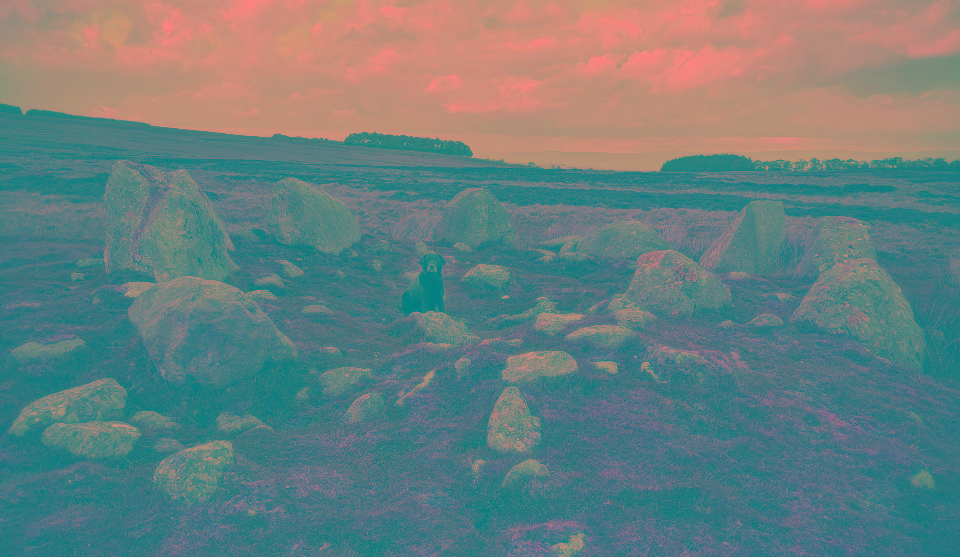
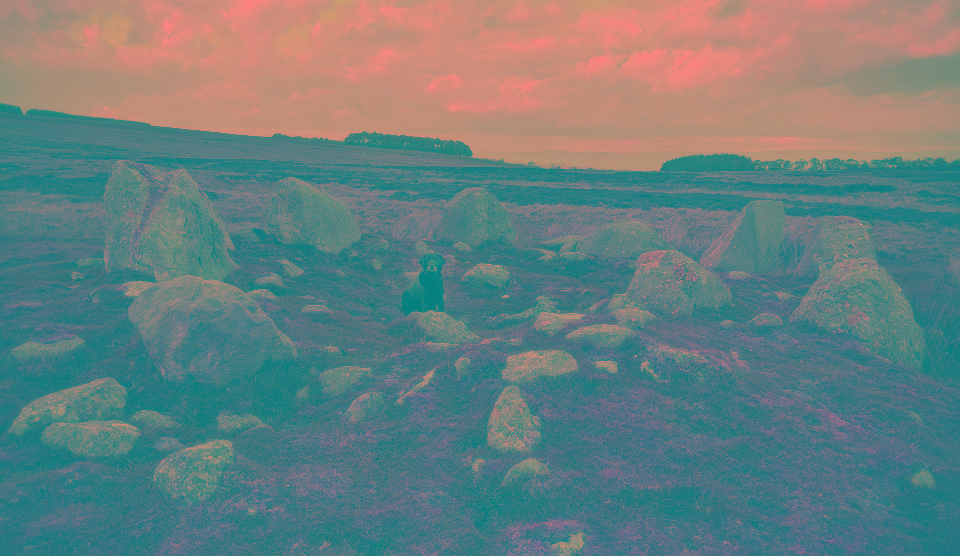
statisk site update

diff --git a/index.html b/index.html
@@ -1,8 +1,9 @@
+<!--- dither=atkinson,maxwidth=500 -->
 <!DOCTYPE html>
 <html>
 <head>
     <meta charset="UTF-8">
-    <title>Mini Website</title>
+    <title>Fisk Solar</title>
     <meta name="viewport" content="width=device-width, initial-scale=1">
     <link rel="apple-touch-icon" sizes="180x180" href="/apple-touch-icon.png">
     <link rel="icon" type="image/png" sizes="32x32" href="/favicon-32x32.png">
@@ -77,17 +78,16 @@
         <path d="M135.113 31.678a1.83 1.83 0 0 0 1.122 2.33l7.064 2.47a1.83 1.83 0 1 0 1.208-3.453l-7.064-2.47a1.83 1.83 0 0 0-2.33 1.123z"/>
         <path d="M94.518 19.42l7.063 2.469a1.83 1.83 0 1 0 1.208-3.454l-7.063-2.47a1.83 1.83 0 1 0-1.208 3.454z"/>
     </svg>
-    <br>
-    <h1>FISK <strike>SOLAR</strike></h1>
 </header>
 <div class="content">
-    <h1>Mini Website</h1><p><img src="example_filter_override_8by8Bayer_255_processed.jpeg" alt="GaddingsDamn" /></p><p><a href="./2019/06/25/index.html">25/06/2019 Machrie Moor Standing Stones, Arran</a><br><a href="./2019/06/24/index.html">24/06/2019 Brodick 'Deer Park' Standing Stones, Cladach, Arran</a><br><a href="./2019/06/26/index.html">26/06/2019 Druid Auchencar, Arran</a><br><a href="./2019/06/27/index.html">27/06/2019 Meallach's Grave, Arran</a><br><a href="./2019/07/03/index.html">03/07/2019 Sleeping babies</a><br><a href="./2019/05/26/index.html">26/05/2019 'Cairn Circle'</a><br><a href="./2019/05/29/index.html">29/05/2019 Hexagrams</a><br><a href="./2019/05/05/index.html">05/05/2019 Summit Tunnel Fire. December 20th 1984</a><br><a href="./2019/04/14/index.html">14/04/2019 Stones Lane, Stones, Todmorden</a><br><a href="./2019/04/28/index.html">28/04/2019 Gaddings Dam, Todmorden. First Swim 1987</a><br><a href="./2019/04/27/index.html">27/04/2019 Walsden TV Relay Tower, Stones Lane/Watty Lane, Todmorden</a><br><a href="./2019/04/18/index.html">18/04/2019 Helton, Cumbria</a><br><a href="./2019/04/20/index.html">20/04/2019 Cop Stone, Askham Fell, Cumbria</a><br></p>
+    <!--- -algorithm 8by8bayer -threshold 245 -foreground #cc0000 -->
+<h1>Fisk Solar</h1><p><img src="example_processed.png" alt="GaddingsDamn" /></p><p><a href="./2019/07/03/index.html">03/07/2019 Sleeping babies</a><br><a href="./2019/06/27/index.html">27/06/2019 Meallach's Grave, Arran</a><br><a href="./2019/06/26/index.html">26/06/2019 Druid Auchencar, Arran</a><br><a href="./2019/06/25/index.html">25/06/2019 Machrie Moor Standing Stones, Arran</a><br><a href="./2019/06/24/index.html">24/06/2019 Brodick 'Deer Park' Standing Stones, Cladach, Arran</a><br><a href="./2019/05/29/index.html">29/05/2019 Hexagrams</a><br><a href="./2019/05/26/index.html">26/05/2019 'Cairn Circle'</a><br><a href="./2019/05/05/index.html">05/05/2019 Summit Tunnel Fire. December 20th 1984</a><br><a href="./2019/04/28/index.html">28/04/2019 Gaddings Dam, Todmorden. First Swim 1987</a><br><a href="./2019/04/27/index.html">27/04/2019 Walsden TV Relay Tower, Stones Lane/Watty Lane, Todmorden</a><br><a href="./2019/04/20/index.html">20/04/2019 Cop Stone, Askham Fell, Cumbria</a><br><a href="./2019/04/18/index.html">18/04/2019 Helton, Cumbria</a><br><a href="./2019/04/14/index.html">14/04/2019 Stones Lane, Stones, Todmorden</a><br></p>
 </div>
 
 <footer>
 <hr>
 <div id="sourhall_data"></div>
-    Inspired by <a href="https://solar.lowtechmagazine.com">LOW←TECH MAGAZINE</a> | Icon by <a href="https://thenounproject.com/term/panels/2696981/">Icongeek26</a> | Page size including images: 126.4kb | <a href="https://github.com/fiskurgit/Statisk">Fisk Statisk</a><br>
+    Inspired by <a href="https://solar.lowtechmagazine.com">LOW←TECH MAGAZINE</a> | Icon by <a href="https://thenounproject.com/term/panels/2696981/">Icongeek26</a> | Page size including images: 36kb | <a href="https://github.com/fiskurgit/Statisk">Fisk Statisk</a><br>
 </footer>
 <script>
 function fetchAwairData(callback) {

diff --git a/2019/05/05/index.html b/2019/05/05/index.html
@@ -1,3 +1,4 @@
+<!--- dither=atkinson,maxwidth=500 -->
 <!DOCTYPE html>
 <html>
 <head>
@@ -77,20 +78,18 @@
         <path d="M135.113 31.678a1.83 1.83 0 0 0 1.122 2.33l7.064 2.47a1.83 1.83 0 1 0 1.208-3.453l-7.064-2.47a1.83 1.83 0 0 0-2.33 1.123z"/>
         <path d="M94.518 19.42l7.063 2.469a1.83 1.83 0 1 0 1.208-3.454l-7.063-2.47a1.83 1.83 0 1 0-1.208 3.454z"/>
     </svg>
-    <br>
-    <h1>FISK <strike>SOLAR</strike></h1>
 </header>
 <div class="content">
     <h1>Summit Tunnel Fire. December 20th 1984</h1><h4>05th May 2019</h4><p>OS Grid Ref: <a href="https://www.ordnancesurvey.co.uk/osmaps/53.664104821167314,-2.084343430209656,17.0/pin/">SD 94522 18542</a><br />
 Geo URI: <code>geo:53.6641,-2.0843</code><br />
 Latitude: 53° 39' 48&quot; N<br />
-Longitude: 2° 5' 3&quot; W</p><p>Old postcard: <em>Summit Tunnel Fire. December 20th 1984</em></p><p>from <a href="https://en.wikipedia.org/wiki/Summit_Tunnel_fire">Wikipedia</a>:</p><blockquote><p>On 20 December 1984 a dangerous goods trainpassing through the Summit Tunnel on the Greater Manchester/West Yorkshire border, caught fire on the rail line between Littleborough and Todmorden, England.</p></blockquote><p>More details at  <a href="https://www.railmagazine.com/infrastructure/trackside/summit-tunnel-from-fire-to-ice">railmagazine.com</a></p><p><img src="summit_fire_processed.jpeg" alt="Summit Tunnel Fire" /></p>
+Longitude: 2° 5' 3&quot; W</p><p>Old postcard: <em>Summit Tunnel Fire. December 20th 1984</em></p><p>from <a href="https://en.wikipedia.org/wiki/Summit_Tunnel_fire">Wikipedia</a>:</p><blockquote><p>On 20 December 1984 a dangerous goods trainpassing through the Summit Tunnel on the Greater Manchester/West Yorkshire border, caught fire on the rail line between Littleborough and Todmorden, England.</p></blockquote><p>More details at  <a href="https://www.railmagazine.com/infrastructure/trackside/summit-tunnel-from-fire-to-ice">railmagazine.com</a></p><p><img src="summit_fire_processed.png" alt="Summit Tunnel Fire" /></p>
 </div>
 
 <footer>
 <hr>
 <div id="sourhall_data"></div>
-    Inspired by <a href="https://solar.lowtechmagazine.com">LOW←TECH MAGAZINE</a> | Icon by <a href="https://thenounproject.com/term/panels/2696981/">Icongeek26</a> | Page size including images: 261.5kb | <a href="https://github.com/fiskurgit/Statisk">Fisk Statisk</a><br>
+    Inspired by <a href="https://solar.lowtechmagazine.com">LOW←TECH MAGAZINE</a> | Icon by <a href="https://thenounproject.com/term/panels/2696981/">Icongeek26</a> | Page size including images: 1.7MB | <a href="https://github.com/fiskurgit/Statisk">Fisk Statisk</a><br>
 </footer>
 <script>
 function fetchAwairData(callback) {

diff --git a/2019/05/29/index.html b/2019/05/29/index.html
@@ -1,3 +1,4 @@
+<!--- dither=atkinson,maxwidth=500 -->
 <!DOCTYPE html>
 <html>
 <head>
@@ -77,11 +78,9 @@
         <path d="M135.113 31.678a1.83 1.83 0 0 0 1.122 2.33l7.064 2.47a1.83 1.83 0 1 0 1.208-3.453l-7.064-2.47a1.83 1.83 0 0 0-2.33 1.123z"/>
         <path d="M94.518 19.42l7.063 2.469a1.83 1.83 0 1 0 1.208-3.454l-7.063-2.47a1.83 1.83 0 1 0-1.208 3.454z"/>
     </svg>
-    <br>
-    <h1>FISK <strike>SOLAR</strike></h1>
 </header>
 <div class="content">
-    <h1>Hexagrams</h1><p><img src="screenshot2_processed.jpeg" alt="Hexagrams Image" /></p><p>I wrote this a while back after a Todmorden local posted some <a href="https://en.wikipedia.org/wiki/Hexagram">hexagram</a> sketches he'd done on Instagram.</p><p><img src="screenshot1_processed.jpeg" alt="Hexagrams Image" /></p><p>To run yourself: download <a href="https://processing.org">Processing</a> and copy the source below. Click the mouse to generate a new matrix, each time a .pdf is saved in the sketch folder (find it from within Processing by selecting the Sketch menu then <em>Show Sketch folder</em> - if you want an .svg use an <a href="https://cloudconvert.com/pdf-to-svg">online pdf to svg converter</a>)</p><pre><code>
+    <h1>Hexagrams</h1><p><img src="screenshot2_processed.png" alt="Hexagrams Image" /></p><p>I wrote this a while back after a Todmorden local posted some <a href="https://en.wikipedia.org/wiki/Hexagram">hexagram</a> sketches he'd done on Instagram.</p><p><img src="screenshot1_processed.png" alt="Hexagrams Image" /></p><p>To run yourself: download <a href="https://processing.org">Processing</a> and copy the source below. Click the mouse to generate a new matrix, each time a .pdf is saved in the sketch folder (find it from within Processing by selecting the Sketch menu then <em>Show Sketch folder</em> - if you want an .svg use an <a href="https://cloudconvert.com/pdf-to-svg">online pdf to svg converter</a>)</p><pre><code>
 import processing.pdf.*;
 
 int VERTEXES = 6;
@@ -194,7 +193,7 @@ class Hexagram{
 <footer>
 <hr>
 <div id="sourhall_data"></div>
-    Inspired by <a href="https://solar.lowtechmagazine.com">LOW←TECH MAGAZINE</a> | Icon by <a href="https://thenounproject.com/term/panels/2696981/">Icongeek26</a> | Page size including images: 276.3kb | <a href="https://github.com/fiskurgit/Statisk">Fisk Statisk</a><br>
+    Inspired by <a href="https://solar.lowtechmagazine.com">LOW←TECH MAGAZINE</a> | Icon by <a href="https://thenounproject.com/term/panels/2696981/">Icongeek26</a> | Page size including images: 536.3kb | <a href="https://github.com/fiskurgit/Statisk">Fisk Statisk</a><br>
 </footer>
 <script>
 function fetchAwairData(callback) {

diff --git a/2019/04/27/index.html b/2019/04/27/index.html
@@ -1,3 +1,4 @@
+<!--- dither=atkinson,maxwidth=500 -->
 <!DOCTYPE html>
 <html>
 <head>
@@ -77,11 +78,10 @@
         <path d="M135.113 31.678a1.83 1.83 0 0 0 1.122 2.33l7.064 2.47a1.83 1.83 0 1 0 1.208-3.453l-7.064-2.47a1.83 1.83 0 0 0-2.33 1.123z"/>
         <path d="M94.518 19.42l7.063 2.469a1.83 1.83 0 1 0 1.208-3.454l-7.063-2.47a1.83 1.83 0 1 0-1.208 3.454z"/>
     </svg>
-    <br>
-    <h1>FISK <strike>SOLAR</strike></h1>
 </header>
 <div class="content">
-    <p><img src="stones_radio2_processed.jpeg" alt="Radio mast at Stones" /></p><h1>Walsden TV Relay Tower, Stones Lane/Watty Lane, Todmorden</h1><h4>14th April 2019</h4><p>OS Grid Ref: <a href="https://osmaps.ordnancesurvey.co.uk/53.70795,-2.11140,18/pin">SD 92743 23508</a><br />
+    <!--- -image_format jpeg_high -->
+<p><img src="stones_radio2_processed.jpeg" alt="Radio mast at Stones" /></p><h1>Walsden TV Relay Tower, Stones Lane/Watty Lane, Todmorden</h1><h4>14th April 2019</h4><p>OS Grid Ref: <a href="https://osmaps.ordnancesurvey.co.uk/53.70795,-2.11140,18/pin">SD 92743 23508</a><br />
 Latitude: 53° 42' 28&quot; N<br />
 Longitude: 2° 6' 41&quot; W</p><p>More info at <a href="https://www.transdiffusion.org/2018/03/12/a-solid-step-forward">transdiffusion.org</a></p><p><img src="stones_radio_processed.jpeg" alt="Radio mast at Stones" /></p>
 </div>
@@ -89,7 +89,7 @@ Longitude: 2° 6' 41&quot; W</p><p>More info at <a href="https://www.transdiffus
 <footer>
 <hr>
 <div id="sourhall_data"></div>
-    Inspired by <a href="https://solar.lowtechmagazine.com">LOW←TECH MAGAZINE</a> | Icon by <a href="https://thenounproject.com/term/panels/2696981/">Icongeek26</a> | Page size including images: 201.3kb | <a href="https://github.com/fiskurgit/Statisk">Fisk Statisk</a><br>
+    Inspired by <a href="https://solar.lowtechmagazine.com">LOW←TECH MAGAZINE</a> | Icon by <a href="https://thenounproject.com/term/panels/2696981/">Icongeek26</a> | Page size including images: 258.7kb | <a href="https://github.com/fiskurgit/Statisk">Fisk Statisk</a><br>
 </footer>
 <script>
 function fetchAwairData(callback) {

diff --git a/2019/05/26/index.html b/2019/05/26/index.html
@@ -1,3 +1,4 @@
+<!--- dither=atkinson,maxwidth=500 -->
 <!DOCTYPE html>
 <html>
 <head>
@@ -77,11 +78,10 @@
         <path d="M135.113 31.678a1.83 1.83 0 0 0 1.122 2.33l7.064 2.47a1.83 1.83 0 1 0 1.208-3.453l-7.064-2.47a1.83 1.83 0 0 0-2.33 1.123z"/>
         <path d="M94.518 19.42l7.063 2.469a1.83 1.83 0 1 0 1.208-3.454l-7.063-2.47a1.83 1.83 0 1 0-1.208 3.454z"/>
     </svg>
-    <br>
-    <h1>FISK <strike>SOLAR</strike></h1>
 </header>
 <div class="content">
-    <h1>'Cairn Circle'</h1><h4>26th May 2019</h4><p>OS Grid Ref: <a href="https://osmaps.ordnancesurvey.co.uk/54.59103,-2.78437,18/pin">SD 94827 22566</a><br />
+    <!--- -image_format jpeg_high -->
+<h1>'Cairn Circle'</h1><h4>26th May 2019</h4><p>OS Grid Ref: <a href="https://osmaps.ordnancesurvey.co.uk/54.59103,-2.78437,18/pin">SD 94827 22566</a><br />
 Geo URI: <code>geo:54.5910,2.78437</code><br />
 Latitude: 53° 41' 58&quot; N<br />
 Longitude: 2° 4' 47&quot; W</p><p>Up on Moor Divock/Askham Fell along with the <a href="https://fiskurgit.github.io/blog/20042019/">Cop Stone</a>, the Cockpit Circle and others. Deserves to have a name, but apparently doesn't.</p><p><img src="askham_fell_mini_circle_processed.jpeg" alt="Ring Cairn Askham Fell" /></p>
@@ -90,7 +90,7 @@ Longitude: 2° 4' 47&quot; W</p><p>Up on Moor Divock/Askham Fell along with the 
 <footer>
 <hr>
 <div id="sourhall_data"></div>
-    Inspired by <a href="https://solar.lowtechmagazine.com">LOW←TECH MAGAZINE</a> | Icon by <a href="https://thenounproject.com/term/panels/2696981/">Icongeek26</a> | Page size including images: 187.1kb | <a href="https://github.com/fiskurgit/Statisk">Fisk Statisk</a><br>
+    Inspired by <a href="https://solar.lowtechmagazine.com">LOW←TECH MAGAZINE</a> | Icon by <a href="https://thenounproject.com/term/panels/2696981/">Icongeek26</a> | Page size including images: 186.8kb | <a href="https://github.com/fiskurgit/Statisk">Fisk Statisk</a><br>
 </footer>
 <script>
 function fetchAwairData(callback) {

diff --git a/2019/04/14/index.html b/2019/04/14/index.html
@@ -1,3 +1,4 @@
+<!--- dither=atkinson,maxwidth=500 -->
 <!DOCTYPE html>
 <html>
 <head>
@@ -77,11 +78,10 @@
         <path d="M135.113 31.678a1.83 1.83 0 0 0 1.122 2.33l7.064 2.47a1.83 1.83 0 1 0 1.208-3.453l-7.064-2.47a1.83 1.83 0 0 0-2.33 1.123z"/>
         <path d="M94.518 19.42l7.063 2.469a1.83 1.83 0 1 0 1.208-3.454l-7.063-2.47a1.83 1.83 0 1 0-1.208 3.454z"/>
     </svg>
-    <br>
-    <h1>FISK <strike>SOLAR</strike></h1>
 </header>
 <div class="content">
-    <p><img src="stones_lane_stone_processed.jpeg" alt="Standing stone" /></p><h1>Stones Lane, Stones, Todmorden</h1><h4>14th April 2019</h4><p>OS Grid Ref: <a href="https://osmaps.ordnancesurvey.co.uk/53.71058,-2.11881,18/pin">SD 92255 23801</a><br />
+    <!--- -image_format jpeg_high -->
+<p><img src="stones_lane_stone_processed.jpeg" alt="Standing stone" /></p><h1>Stones Lane, Stones, Todmorden</h1><h4>14th April 2019</h4><p>OS Grid Ref: <a href="https://osmaps.ordnancesurvey.co.uk/53.71058,-2.11881,18/pin">SD 92255 23801</a><br />
 Latitude: 53° 42' 38&quot; N<br />
 Longitude: 2° 7' 7&quot; W</p><p>One of three standing stones in Stones, and the only one that could possibly be neolithic.</p>
 </div>
@@ -89,7 +89,7 @@ Longitude: 2° 7' 7&quot; W</p><p>One of three standing stones in Stones, and th
 <footer>
 <hr>
 <div id="sourhall_data"></div>
-    Inspired by <a href="https://solar.lowtechmagazine.com">LOW←TECH MAGAZINE</a> | Icon by <a href="https://thenounproject.com/term/panels/2696981/">Icongeek26</a> | Page size including images: 194.8kb | <a href="https://github.com/fiskurgit/Statisk">Fisk Statisk</a><br>
+    Inspired by <a href="https://solar.lowtechmagazine.com">LOW←TECH MAGAZINE</a> | Icon by <a href="https://thenounproject.com/term/panels/2696981/">Icongeek26</a> | Page size including images: 317.7kb | <a href="https://github.com/fiskurgit/Statisk">Fisk Statisk</a><br>
 </footer>
 <script>
 function fetchAwairData(callback) {

diff --git a/2019/06/26/index.html b/2019/06/26/index.html
@@ -1,3 +1,4 @@
+<!--- dither=atkinson,maxwidth=500 -->
 <!DOCTYPE html>
 <html>
 <head>
@@ -77,11 +78,10 @@
         <path d="M135.113 31.678a1.83 1.83 0 0 0 1.122 2.33l7.064 2.47a1.83 1.83 0 1 0 1.208-3.453l-7.064-2.47a1.83 1.83 0 0 0-2.33 1.123z"/>
         <path d="M94.518 19.42l7.063 2.469a1.83 1.83 0 1 0 1.208-3.454l-7.063-2.47a1.83 1.83 0 1 0-1.208 3.454z"/>
     </svg>
-    <br>
-    <h1>FISK <strike>SOLAR</strike></h1>
 </header>
 <div class="content">
-    <h1>Druid Auchencar, Arran</h1><h4>25th June 2019</h4><p>OS Grid Ref: <a href="https://osmaps.ordnancesurvey.co.uk/55.57450,-5.34674,16/pin">NR 89119 36290</a><br />
+    <!--- -image_format jpeg_high -->
+<h1>Druid Auchencar, Arran</h1><h4>26th June 2019</h4><p>OS Grid Ref: <a href="https://osmaps.ordnancesurvey.co.uk/55.57450,-5.34674,16/pin">NR 89119 36290</a><br />
 Geo URI: <code>geo: 55.5745, -5.3467</code><br />
 Latitude: 55° 34' 28&quot; N<br />
 Longitude: 5° 20' 48&quot; W</p><p><img src="druidstone_processed.jpeg" alt="Druid Stone" /></p><p><img src="fallendruidstone_processed.jpeg" alt="Fallen Druid Stone" /></p>
@@ -90,7 +90,7 @@ Longitude: 5° 20' 48&quot; W</p><p><img src="druidstone_processed.jpeg" alt="Dr
 <footer>
 <hr>
 <div id="sourhall_data"></div>
-    Inspired by <a href="https://solar.lowtechmagazine.com">LOW←TECH MAGAZINE</a> | Icon by <a href="https://thenounproject.com/term/panels/2696981/">Icongeek26</a> | Page size including images: 497.5kb | <a href="https://github.com/fiskurgit/Statisk">Fisk Statisk</a><br>
+    Inspired by <a href="https://solar.lowtechmagazine.com">LOW←TECH MAGAZINE</a> | Icon by <a href="https://thenounproject.com/term/panels/2696981/">Icongeek26</a> | Page size including images: 850.1kb | <a href="https://github.com/fiskurgit/Statisk">Fisk Statisk</a><br>
 </footer>
 <script>
 function fetchAwairData(callback) {

diff --git a/2019/06/25/index.html b/2019/06/25/index.html
@@ -1,3 +1,4 @@
+<!--- dither=atkinson,maxwidth=500 -->
 <!DOCTYPE html>
 <html>
 <head>
@@ -77,11 +78,10 @@
         <path d="M135.113 31.678a1.83 1.83 0 0 0 1.122 2.33l7.064 2.47a1.83 1.83 0 1 0 1.208-3.453l-7.064-2.47a1.83 1.83 0 0 0-2.33 1.123z"/>
         <path d="M94.518 19.42l7.063 2.469a1.83 1.83 0 1 0 1.208-3.454l-7.063-2.47a1.83 1.83 0 1 0-1.208 3.454z"/>
     </svg>
-    <br>
-    <h1>FISK <strike>SOLAR</strike></h1>
 </header>
 <div class="content">
-    <h1>Machrie Moor Standing Stones, Arran</h1><h4>25th June 2019</h4><p>OS Grid Ref: <a href="https://osmaps.ordnancesurvey.co.uk/55.5406,-5.31207,16.514429092407227/pin/">NR 91123 32414</a><br />
+    <!--- -image_format jpeg_high -->
+<h1>Machrie Moor Standing Stones, Arran</h1><h4>25th June 2019</h4><p>OS Grid Ref: <a href="https://osmaps.ordnancesurvey.co.uk/55.5406,-5.31207,16.514429092407227/pin/">NR 91123 32414</a><br />
 Geo URI: <code>geo:55.5406, -5.3120</code><br />
 Latitude: 55° 32' 26&quot; N<br />
 Longitude: 5° 18' 43&quot; W</p><p><img src="machrie1_processed.jpeg" alt="Machrie Moor" /></p>
@@ -90,7 +90,7 @@ Longitude: 5° 18' 43&quot; W</p><p><img src="machrie1_processed.jpeg" alt="Mach
 <footer>
 <hr>
 <div id="sourhall_data"></div>
-    Inspired by <a href="https://solar.lowtechmagazine.com">LOW←TECH MAGAZINE</a> | Icon by <a href="https://thenounproject.com/term/panels/2696981/">Icongeek26</a> | Page size including images: 210.1kb | <a href="https://github.com/fiskurgit/Statisk">Fisk Statisk</a><br>
+    Inspired by <a href="https://solar.lowtechmagazine.com">LOW←TECH MAGAZINE</a> | Icon by <a href="https://thenounproject.com/term/panels/2696981/">Icongeek26</a> | Page size including images: 350.3kb | <a href="https://github.com/fiskurgit/Statisk">Fisk Statisk</a><br>
 </footer>
 <script>
 function fetchAwairData(callback) {

diff --git a/2019/04/18/index.html b/2019/04/18/index.html
@@ -1,3 +1,4 @@
+<!--- dither=atkinson,maxwidth=500 -->
 <!DOCTYPE html>
 <html>
 <head>
@@ -77,11 +78,10 @@
         <path d="M135.113 31.678a1.83 1.83 0 0 0 1.122 2.33l7.064 2.47a1.83 1.83 0 1 0 1.208-3.453l-7.064-2.47a1.83 1.83 0 0 0-2.33 1.123z"/>
         <path d="M94.518 19.42l7.063 2.469a1.83 1.83 0 1 0 1.208-3.454l-7.063-2.47a1.83 1.83 0 1 0-1.208 3.454z"/>
     </svg>
-    <br>
-    <h1>FISK <strike>SOLAR</strike></h1>
 </header>
 <div class="content">
-    <h1>Helton, Cumbria</h1><h4>18th April 2019</h4><p>OS Grid Ref: <a href="https://www.ordnancesurvey.co.uk/osmaps/54.59153647477209,-2.760190210819311,17.723546981811523/pin/">NY 50975 22082</a><br />
+    <!--- -image_format jpeg_high -->
+<h1>Helton, Cumbria</h1><h4>18th April 2019</h4><p>OS Grid Ref: <a href="https://www.ordnancesurvey.co.uk/osmaps/54.59153647477209,-2.760190210819311,17.723546981811523/pin/">NY 50975 22082</a><br />
 Latitude: 54° 35' 29&quot; N<br />
 Longitude: 2° 45' 36&quot; W</p><p><img src="helton_processed.jpeg" alt="Helton" /></p>
 </div>
@@ -89,7 +89,7 @@ Longitude: 2° 45' 36&quot; W</p><p><img src="helton_processed.jpeg" alt="Helton
 <footer>
 <hr>
 <div id="sourhall_data"></div>
-    Inspired by <a href="https://solar.lowtechmagazine.com">LOW←TECH MAGAZINE</a> | Icon by <a href="https://thenounproject.com/term/panels/2696981/">Icongeek26</a> | Page size including images: 58kb | <a href="https://github.com/fiskurgit/Statisk">Fisk Statisk</a><br>
+    Inspired by <a href="https://solar.lowtechmagazine.com">LOW←TECH MAGAZINE</a> | Icon by <a href="https://thenounproject.com/term/panels/2696981/">Icongeek26</a> | Page size including images: 90.8kb | <a href="https://github.com/fiskurgit/Statisk">Fisk Statisk</a><br>
 </footer>
 <script>
 function fetchAwairData(callback) {

diff --git a/2019/06/24/index.html b/2019/06/24/index.html
@@ -1,3 +1,4 @@
+<!--- dither=atkinson,maxwidth=500 -->
 <!DOCTYPE html>
 <html>
 <head>
@@ -77,14 +78,13 @@
         <path d="M135.113 31.678a1.83 1.83 0 0 0 1.122 2.33l7.064 2.47a1.83 1.83 0 1 0 1.208-3.453l-7.064-2.47a1.83 1.83 0 0 0-2.33 1.123z"/>
         <path d="M94.518 19.42l7.063 2.469a1.83 1.83 0 1 0 1.208-3.454l-7.063-2.47a1.83 1.83 0 1 0-1.208 3.454z"/>
     </svg>
-    <br>
-    <h1>FISK <strike>SOLAR</strike></h1>
 </header>
 <div class="content">
-    <h1>Brodick 'Deer Park' Standing Stones, Cladach, Arran</h1><h4>24th June 2019</h4><p>OS Grid Ref: <a href="https://osmaps.ordnancesurvey.co.uk/55.58964112993499,-5.164788690645112,17.989999771118164/pin/">NS 00661 37436</a><br />
+    <!--- -image_format jpeg_high -->
+<h1>Brodick 'Deer Park' Standing Stones, Cladach, Arran</h1><h4>24th June 2019</h4><p>OS Grid Ref: <a href="https://osmaps.ordnancesurvey.co.uk/55.58964112993499,-5.164788690645112,17.989999771118164/pin/">NS 00661 37436</a><br />
 Geo URI: <code>geo:55.5896,-5.1647</code><br />
 Latitude: 55° 35' 22&quot; N<br />
-Longitude: 5° 9' 53&quot; W</p><p>Three standing stones separated by a road. The larger two were surrounded with barley crop so we couldnt get close.</p><p><img src="arran_stones_filter_override_Burkes_255_processed.jpeg" alt="Standing stones" /></p><p><img src="cladach_stone_filter_override_Burkes_255_processed.jpeg" alt="Single stone" /></p>
+Longitude: 5° 9' 53&quot; W</p><p>Three standing stones separated by a road. The larger two were surrounded with barley crop so we couldn't get close.</p><p><img src="arran_stones_filter_override_Burkes_255_processed.jpeg" alt="Standing stones" /></p><p><img src="cladach_stone_filter_override_Burkes_255_processed.jpeg" alt="Single stone" /></p>
 </div>
 
 <footer>

diff --git a/2019/06/27/index.html b/2019/06/27/index.html
@@ -1,3 +1,4 @@
+<!--- dither=atkinson,maxwidth=500 -->
 <!DOCTYPE html>
 <html>
 <head>
@@ -77,20 +78,18 @@
         <path d="M135.113 31.678a1.83 1.83 0 0 0 1.122 2.33l7.064 2.47a1.83 1.83 0 1 0 1.208-3.453l-7.064-2.47a1.83 1.83 0 0 0-2.33 1.123z"/>
         <path d="M94.518 19.42l7.063 2.469a1.83 1.83 0 1 0 1.208-3.454l-7.063-2.47a1.83 1.83 0 1 0-1.208 3.454z"/>
     </svg>
-    <br>
-    <h1>FISK <strike>SOLAR</strike></h1>
 </header>
 <div class="content">
     <h1>Meallach's Grave, Arran</h1><h4>26th June 2019</h4><p>OS Grid Ref: <a href="https://osmaps.ordnancesurvey.co.uk/55.51340,-5.14155,16/pin">NS 01742 28889</a><br />
 Geo URI: <code>geo: 55.5134, -5.1415</code><br />
 Latitude: 55° 30' 48&quot; N<br />
-Longitude: 5° 8' 29&quot; W</p><p><img src="meallachs_grave_processed.jpeg" alt="Meallachs Grace" /></p>
+Longitude: 5° 8' 29&quot; W</p><p><img src="meallachs_grave_processed.png" alt="Meallachs Grace" /></p>
 </div>
 
 <footer>
 <hr>
 <div id="sourhall_data"></div>
-    Inspired by <a href="https://solar.lowtechmagazine.com">LOW←TECH MAGAZINE</a> | Icon by <a href="https://thenounproject.com/term/panels/2696981/">Icongeek26</a> | Page size including images: 277.1kb | <a href="https://github.com/fiskurgit/Statisk">Fisk Statisk</a><br>
+    Inspired by <a href="https://solar.lowtechmagazine.com">LOW←TECH MAGAZINE</a> | Icon by <a href="https://thenounproject.com/term/panels/2696981/">Icongeek26</a> | Page size including images: 791.3kb | <a href="https://github.com/fiskurgit/Statisk">Fisk Statisk</a><br>
 </footer>
 <script>
 function fetchAwairData(callback) {

diff --git a/2019/07/03/index.html b/2019/07/03/index.html
@@ -1,3 +1,4 @@
+<!--- dither=atkinson,maxwidth=500 -->
 <!DOCTYPE html>
 <html>
 <head>
@@ -77,17 +78,16 @@
         <path d="M135.113 31.678a1.83 1.83 0 0 0 1.122 2.33l7.064 2.47a1.83 1.83 0 1 0 1.208-3.453l-7.064-2.47a1.83 1.83 0 0 0-2.33 1.123z"/>
         <path d="M94.518 19.42l7.063 2.469a1.83 1.83 0 1 0 1.208-3.454l-7.063-2.47a1.83 1.83 0 1 0-1.208 3.454z"/>
     </svg>
-    <br>
-    <h1>FISK <strike>SOLAR</strike></h1>
 </header>
 <div class="content">
-    <h1>Sleeping babies</h1><p><a href="./js/">View animated version (requires Javascript)</a></p><p>A4 Axidraw pen plot:</p><p><img src="sleeping_babies_plot_processed.jpeg" alt="Axidraw Plot" /></p>
+    <!--- -image_format jpeg_high -convert_greyscale -->
+<h1>Sleeping babies</h1><p><a href="./js/">View animated version (requires Javascript)</a></p><p>A4 Axidraw pen plot:</p><p><img src="sleeping_babies_plot_processed.jpeg" alt="Axidraw Plot" /></p>
 </div>
 
 <footer>
 <hr>
 <div id="sourhall_data"></div>
-    Inspired by <a href="https://solar.lowtechmagazine.com">LOW←TECH MAGAZINE</a> | Icon by <a href="https://thenounproject.com/term/panels/2696981/">Icongeek26</a> | Page size including images: 168.4kb | <a href="https://github.com/fiskurgit/Statisk">Fisk Statisk</a><br>
+    Inspired by <a href="https://solar.lowtechmagazine.com">LOW←TECH MAGAZINE</a> | Icon by <a href="https://thenounproject.com/term/panels/2696981/">Icongeek26</a> | Page size including images: 276.3kb | <a href="https://github.com/fiskurgit/Statisk">Fisk Statisk</a><br>
 </footer>
 <script>
 function fetchAwairData(callback) {
